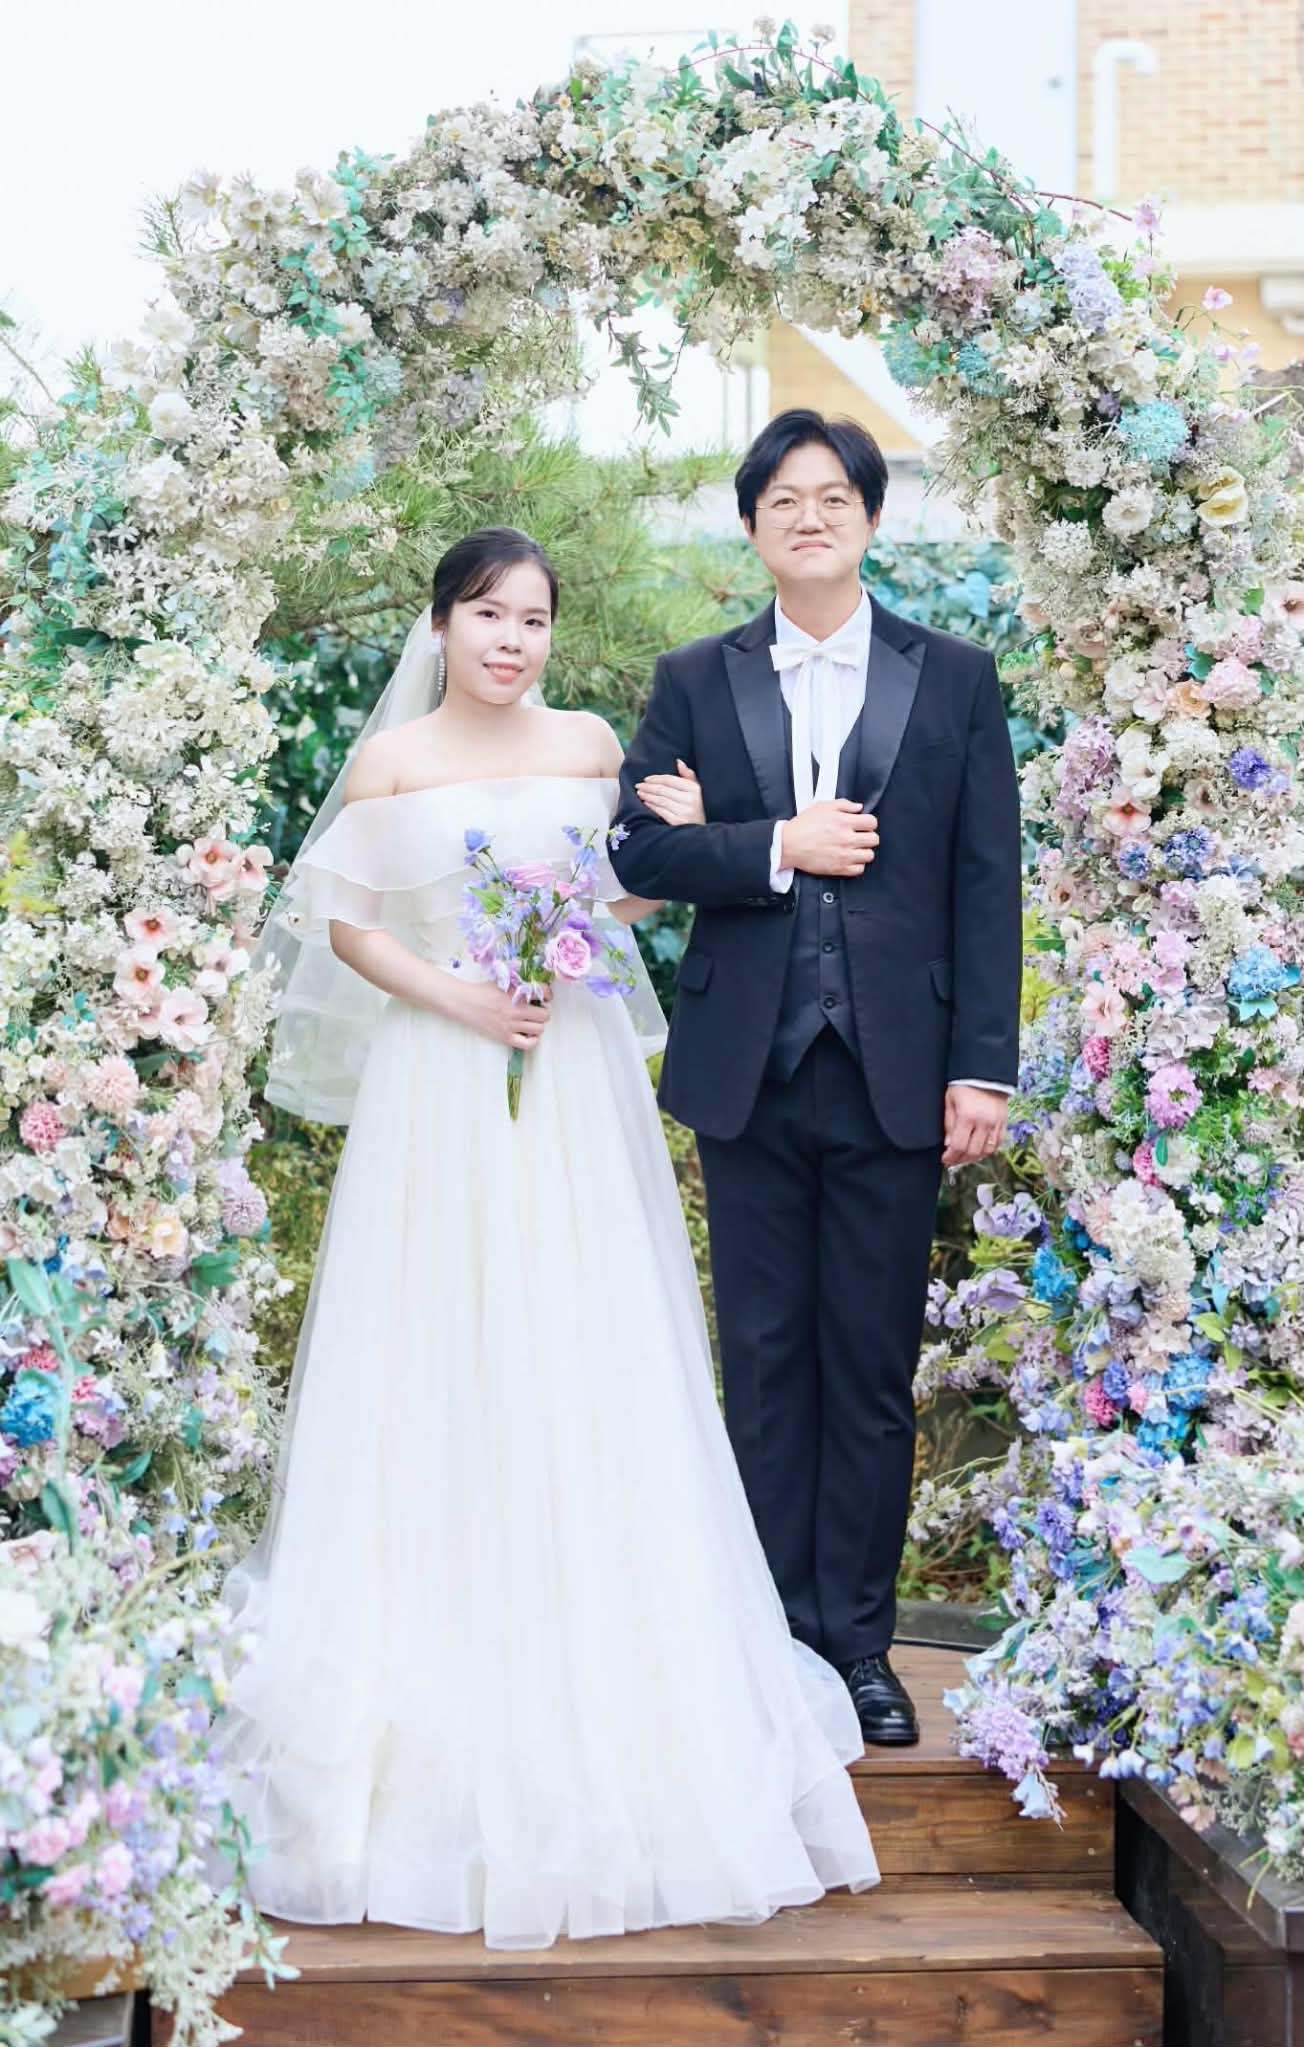
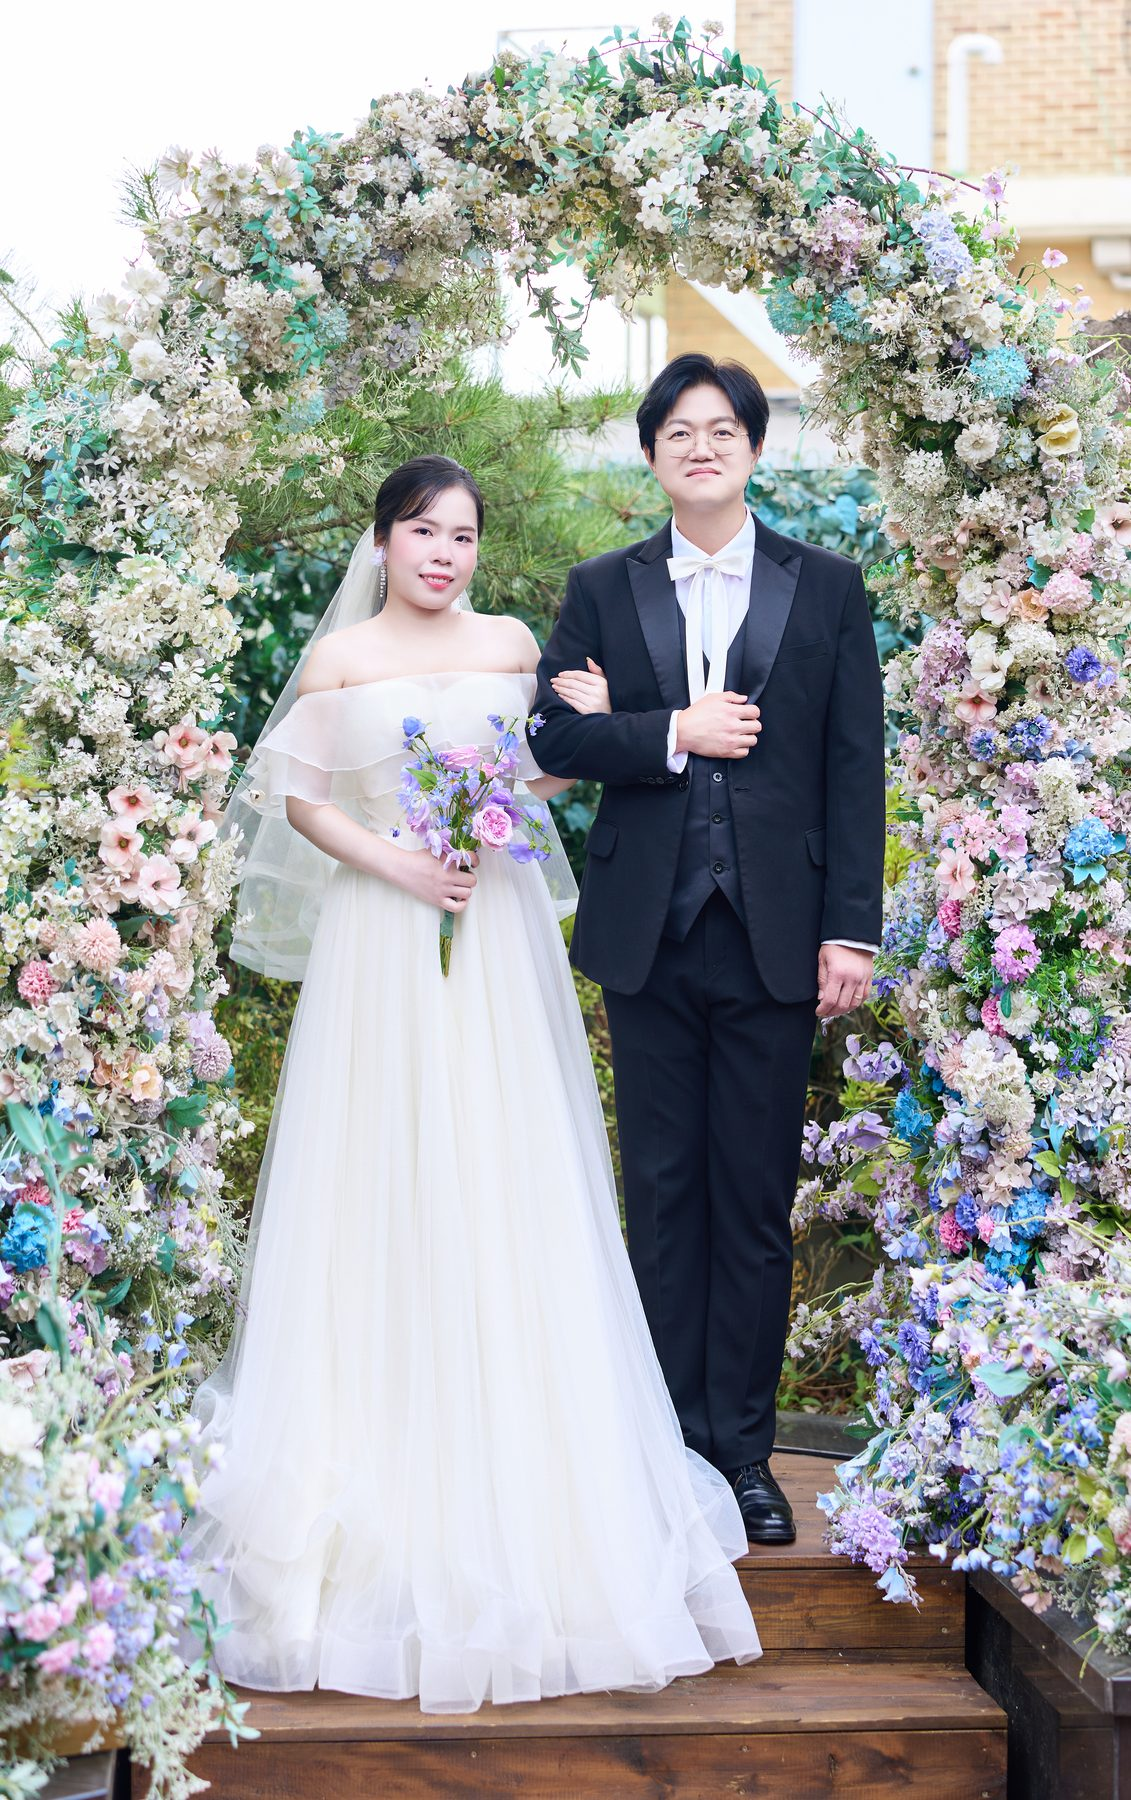
Replace gallery photos and main hero photo
- Swap gallery from img/ to img2/ (14 photos), compressed to img2/web/
- Recompress updated w_main.jpg hero photo (17MB -> ~500KB)
- Remove superseded img/web optimized set

diff --git a/index.html b/index.html
@@ -1044,16 +1044,20 @@
     <div class="section-label">Gallery</div>
     <div class="gallery-slider">
       <div class="gallery-track" id="galleryTrack">
-        <div class="gallery-slide"><img src="img/web/gallery-01.jpg" alt="웨딩 사진 1" loading="eager" decoding="async"></div>
-        <div class="gallery-slide"><img src="img/web/gallery-02.jpg" alt="웨딩 사진 2" loading="lazy" decoding="async"></div>
-        <div class="gallery-slide"><img src="img/web/gallery-03.jpg" alt="웨딩 사진 3" loading="lazy" decoding="async"></div>
-        <div class="gallery-slide"><img src="img/web/gallery-04.jpg" alt="웨딩 사진 4" loading="lazy" decoding="async"></div>
-        <div class="gallery-slide"><img src="img/web/gallery-05.jpg" alt="웨딩 사진 5" loading="lazy" decoding="async"></div>
-        <div class="gallery-slide"><img src="img/web/gallery-06.jpg" alt="웨딩 사진 6" loading="lazy" decoding="async"></div>
-        <div class="gallery-slide"><img src="img/web/gallery-07.jpg" alt="웨딩 사진 7" loading="lazy" decoding="async"></div>
-        <div class="gallery-slide"><img src="img/web/gallery-08.jpg" alt="웨딩 사진 8" loading="lazy" decoding="async"></div>
-        <div class="gallery-slide"><img src="img/web/gallery-09.jpg" alt="웨딩 사진 9" loading="lazy" decoding="async"></div>
-        <div class="gallery-slide"><img src="img/web/gallery-10.jpg" alt="웨딩 사진 10" loading="lazy" decoding="async"></div>
+        <div class="gallery-slide"><img src="img2/web/gallery-01.jpg" alt="웨딩 사진 1" loading="eager" decoding="async"></div>
+        <div class="gallery-slide"><img src="img2/web/gallery-02.jpg" alt="웨딩 사진 2" loading="lazy" decoding="async"></div>
+        <div class="gallery-slide"><img src="img2/web/gallery-03.jpg" alt="웨딩 사진 3" loading="lazy" decoding="async"></div>
+        <div class="gallery-slide"><img src="img2/web/gallery-04.jpg" alt="웨딩 사진 4" loading="lazy" decoding="async"></div>
+        <div class="gallery-slide"><img src="img2/web/gallery-05.jpg" alt="웨딩 사진 5" loading="lazy" decoding="async"></div>
+        <div class="gallery-slide"><img src="img2/web/gallery-06.jpg" alt="웨딩 사진 6" loading="lazy" decoding="async"></div>
+        <div class="gallery-slide"><img src="img2/web/gallery-07.jpg" alt="웨딩 사진 7" loading="lazy" decoding="async"></div>
+        <div class="gallery-slide"><img src="img2/web/gallery-08.jpg" alt="웨딩 사진 8" loading="lazy" decoding="async"></div>
+        <div class="gallery-slide"><img src="img2/web/gallery-09.jpg" alt="웨딩 사진 9" loading="lazy" decoding="async"></div>
+        <div class="gallery-slide"><img src="img2/web/gallery-10.jpg" alt="웨딩 사진 10" loading="lazy" decoding="async"></div>
+        <div class="gallery-slide"><img src="img2/web/gallery-11.jpg" alt="웨딩 사진 11" loading="lazy" decoding="async"></div>
+        <div class="gallery-slide"><img src="img2/web/gallery-12.jpg" alt="웨딩 사진 12" loading="lazy" decoding="async"></div>
+        <div class="gallery-slide"><img src="img2/web/gallery-13.jpg" alt="웨딩 사진 13" loading="lazy" decoding="async"></div>
+        <div class="gallery-slide"><img src="img2/web/gallery-14.jpg" alt="웨딩 사진 14" loading="lazy" decoding="async"></div>
       </div>
     </div>
     <div class="gallery-nav">
